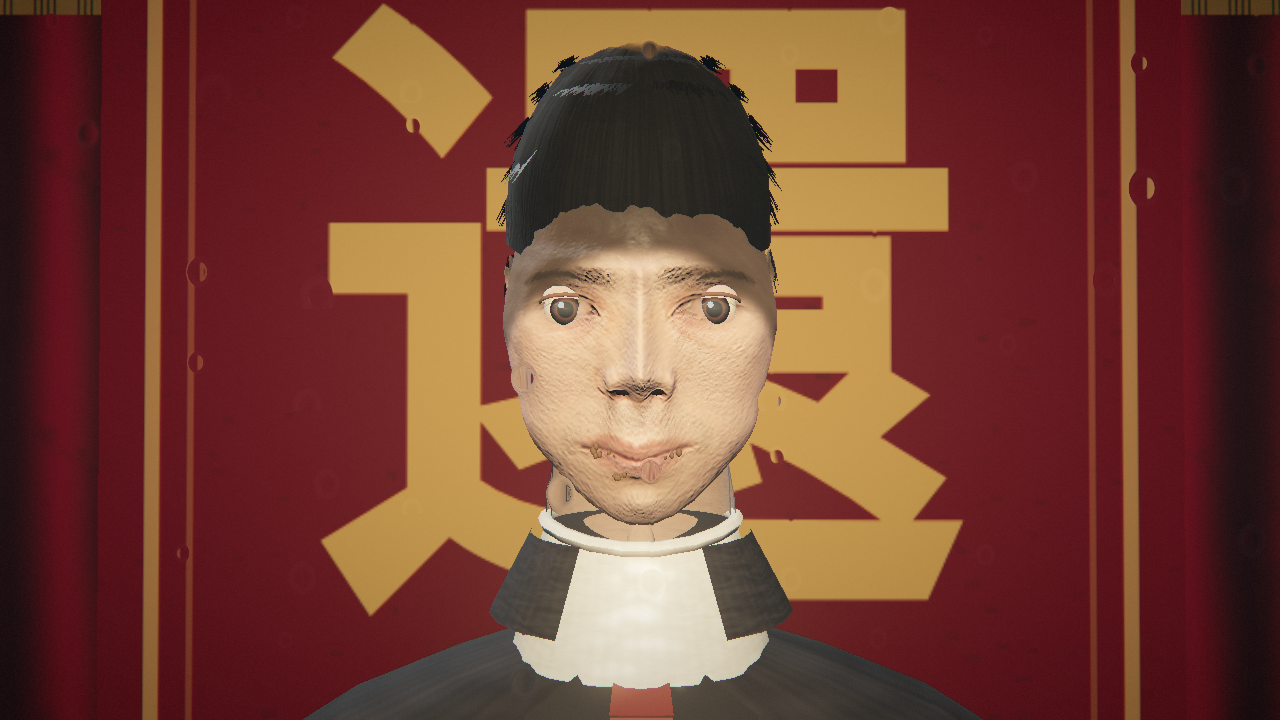
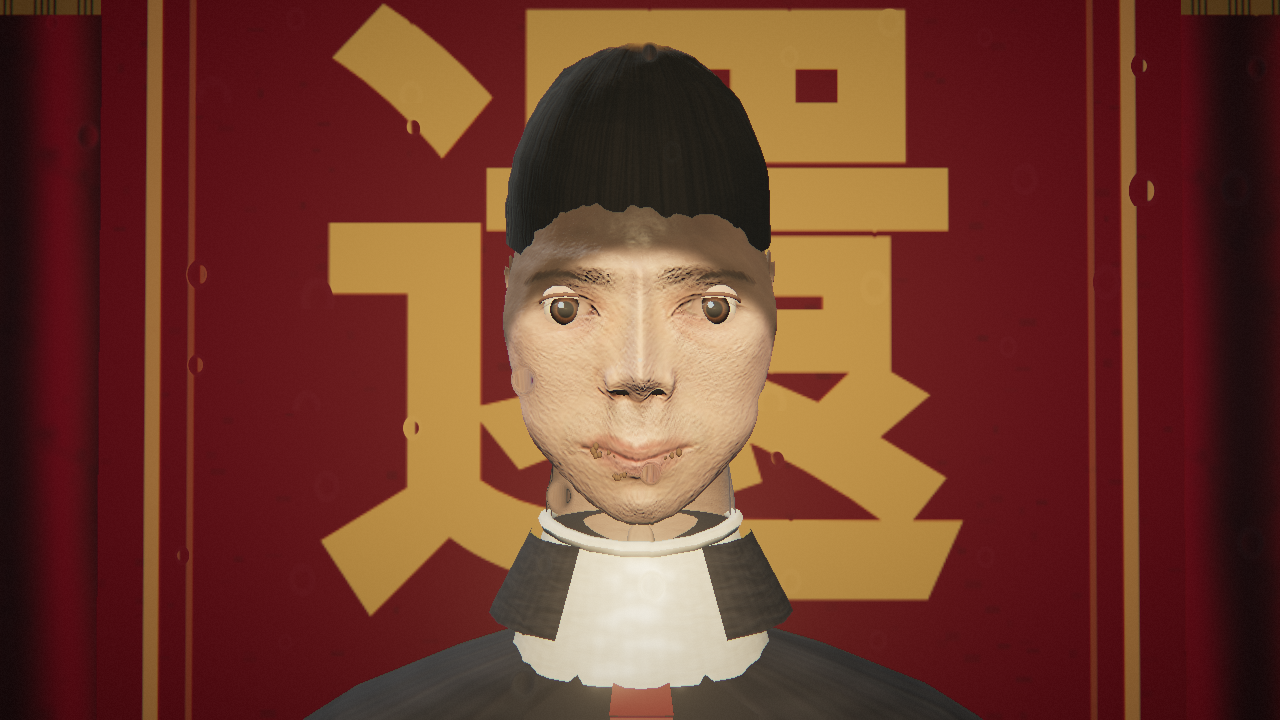
轮25四稿·「蓝珠眼」历轮真凶落网+立面蒙尘加浓：①enemy初始化setEyeIntensity(0.7)给虹膜常亮0.1档青灰emissive(0x4a6a70)——深褐虹膜游戏内被自发光洗成蓝珠(charview无enemy包装所以历轮都查不到)；常态死区抬到v>1才点潮光、峰值斜率0.5→0.55补回警戒亮度——keeper/runner游戏内取证虹膜终于深棕；②喉结顶点色1.0→0.93住进颌下阴影带(领口正中亮珠出局)；③立面风化贴花alpha全带×1.8(蒙尘0.04-0.11→0.08-0.20/檐口淌水0.08-0.2→0.15-0.35/雨洗0.05-0.13→0.09-0

diff --git a/src/world/textures.js b/src/world/textures.js
@@ -1583,10 +1583,12 @@ export function facadeWeatherTexture(size = 512, seed = 4451) {
   ctx.clearRect(0, 0, size, size);
   const rand = mulberry32(seed);
   // 蒙尘斑块：大而软的暗斑（低 alpha）——立面明度低频起伏
+  // 轮25二稿：alpha 全带 ×1.8——一稿取证夜景下整幅蒙尘读不出来，
+  // 立面仍被父审级读成「一整块」；雨夜灰楼的脏必须压得住月光级照度
   for (let i = 0; i < 26; i++) {
     const x = rand() * size, y = rand() * size, r = size * (0.06 + rand() * 0.16);
     const g = ctx.createRadialGradient(x, y, 0, x, y, r);
-    const a = 0.04 + rand() * 0.07;
+    const a = 0.08 + rand() * 0.12;
     g.addColorStop(0, `rgba(40,38,32,${a.toFixed(3)})`);
     g.addColorStop(1, 'rgba(40,38,32,0)');
     ctx.fillStyle = g;
@@ -1596,7 +1598,7 @@ export function facadeWeatherTexture(size = 512, seed = 4451) {
   for (let i = 0; i < 34; i++) {
     const x = rand() * size, w = 2 + rand() * 7, h = size * (0.12 + rand() * 0.3);
     const g = ctx.createLinearGradient(0, 0, 0, h);
-    const a = 0.08 + rand() * 0.12;
+    const a = 0.15 + rand() * 0.2;
     g.addColorStop(0, `rgba(34,32,28,${a.toFixed(3)})`);
     g.addColorStop(1, 'rgba(34,32,28,0)');
     ctx.fillStyle = g;
@@ -1609,7 +1611,7 @@ export function facadeWeatherTexture(size = 512, seed = 4451) {
     ctx.save();
     ctx.translate(x, y0);
     const g = ctx.createLinearGradient(0, 0, 0, h);
-    const a = 0.05 + rand() * 0.08;
+    const a = 0.09 + rand() * 0.13;
     g.addColorStop(0, `rgba(38,36,30,${a.toFixed(3)})`);
     g.addColorStop(1, 'rgba(38,36,30,0)');
     ctx.fillStyle = g;
@@ -1620,11 +1622,11 @@ export function facadeWeatherTexture(size = 512, seed = 4451) {
   {
     const g = ctx.createLinearGradient(0, size * 0.82, 0, size);
     g.addColorStop(0, 'rgba(52,44,34,0)');
-    g.addColorStop(1, 'rgba(52,44,34,0.20)');
+    g.addColorStop(1, 'rgba(52,44,34,0.34)');
     ctx.fillStyle = g;
     ctx.fillRect(0, size * 0.82, size, size * 0.18);
     for (let i = 0; i < 80; i++) {
-      ctx.fillStyle = `rgba(48,40,30,${(0.06 + rand() * 0.12).toFixed(3)})`;
+      ctx.fillStyle = `rgba(48,40,30,${(0.10 + rand() * 0.18).toFixed(3)})`;
       ctx.beginPath();
       ctx.arc(rand() * size, size * (0.86 + rand() * 0.14), 1 + rand() * 3, 0, 6.28);
       ctx.fill();
@@ -1643,8 +1645,8 @@ export function sillStreakTexture(size = 128, seed = 7717) {
   for (const xr of [0.12 + rand() * 0.08, 0.5 + (rand() - 0.5) * 0.2, 0.86 - rand() * 0.08]) {
     const x = xr * size, w = 3 + rand() * 6, h = size * (0.5 + rand() * 0.45);
     const g = ctx.createLinearGradient(0, 0, 0, h);
-    g.addColorStop(0, `rgba(30,28,24,${(0.22 + rand() * 0.12).toFixed(3)})`);
-    g.addColorStop(0.5, `rgba(30,28,24,${(0.10 + rand() * 0.06).toFixed(3)})`);
+    g.addColorStop(0, `rgba(30,28,24,${(0.30 + rand() * 0.14).toFixed(3)})`);
+    g.addColorStop(0.5, `rgba(30,28,24,${(0.15 + rand() * 0.08).toFixed(3)})`);
     g.addColorStop(1, 'rgba(30,28,24,0)');
     ctx.fillStyle = g;
     ctx.fillRect(x - w / 2, 0, w, h);

diff --git a/src/entities/humanoid.js b/src/entities/humanoid.js
@@ -1958,9 +1958,11 @@ export class Humanoid {
       // 加宽压扁(z 0.28→0.13)+再后沉 5mm：只留一道皮下软起伏，轮廓不再有独立剪影）
       if ((D.face === 'm' || D.face === 'gaunt' || D.face === 'old') && role !== 'matron') {
         // 轮18：顶点色 0.95→1.0（比颈面暗 5% 的球=近景一枚「灰色圆贴片」）+再沉 0.7mm
-        this.torso.add(mkMesh(G('adam', () => {
+        // 轮25：1.0→0.93——颌裙环接触影加深后，领口正中一颗全亮球
+        // 读成「领内亮珠」（keeper 取证帧）；喉结住在颌下阴影带里
+        this.torso.add(mkMesh(G('adam25', () => {
           const g2 = new THREE.SphereGeometry(0.012, 8, 6);
-          g2.setAttribute('color', new THREE.BufferAttribute(new Float32Array(g2.attributes.position.count * 3).fill(1.0), 3));
+          g2.setAttribute('color', new THREE.BufferAttribute(new Float32Array(g2.attributes.position.count * 3).fill(0.93), 3));
           return g2;
         }), neckMat, 0, 0.664 + (neckLen - 0.084), 0.0405, 0.66, 0.9, 0.13));
       }
@@ -2969,8 +2971,12 @@ export class Humanoid {
 
   setEyeIntensity(v) {
     // v: 0.5 常态 → 4 警戒。潮光是「湿反光」，不是霓虹。
+    // 轮25三稿：常态死区抬到 1.0——旧式 (v−0.5)×0.5 在初始化 v=0.7 时给虹膜
+    // 常亮 0.1 档青灰自发光（emissive 0x4a6a70），深褐虹膜在游戏内被洗成
+    // 「蓝珠眼」（charview 无 enemy 包装所以是棕的——历轮压不掉的真凶）；
+    // 潮光只归警戒态（v>1），峰值斜率补回原亮度
     this.eyeIntensity = v;
-    this.eyeMat.emissiveIntensity = Math.max(0, (v - 0.5) * 0.5);
+    this.eyeMat.emissiveIntensity = Math.max(0, (v - 1.0) * 0.55);
   }
 
   /** 近距 LOD：2m 内换高段数头模+法线细节层（滞回 2.1/2.9m 防抖）。
